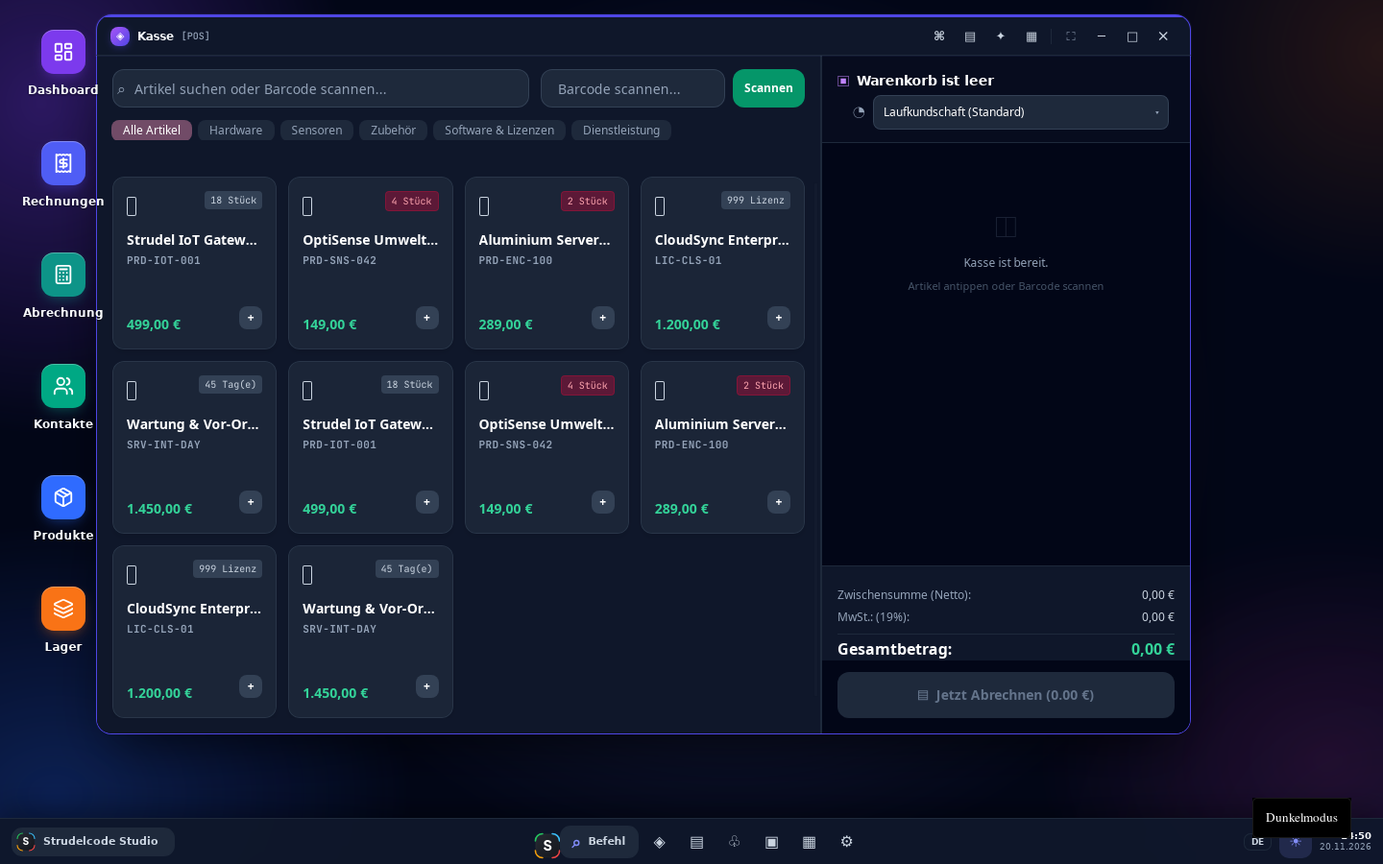
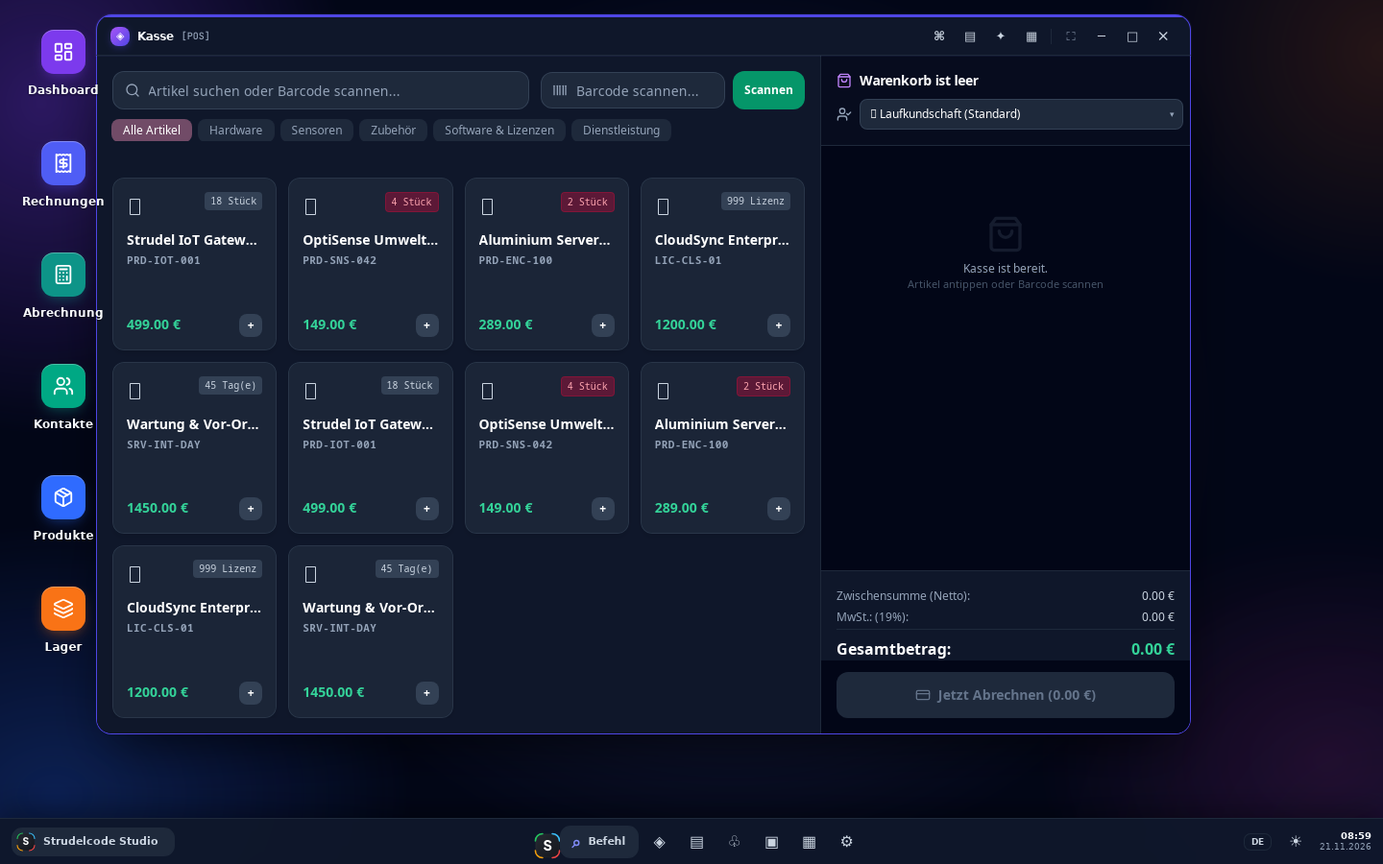
Bring the Rust POS register to TS parity in both themes
The register measured 98.05/0.8509 (light) and 98.03/0.8544 (dark) because a
global font rule beat the module's own faces, prices used the old money format,
glyph characters fell back to tofu, and the cart head carried a stray 16 px
padding; the card grid also drifted one pixel per row. Formatting, font
scoping, Lucide icons and the measured row offsets now put it at 98.42/0.9061
and 98.36/0.9029, above both parity targets.

🤖 Generated with Codebuff

diff --git a/crates/app/ui/src/parity.css b/crates/app/ui/src/parity.css
@@ -5234,38 +5234,52 @@ body.palette-desktop .desktop-shortcut {
 
 /* POS — ported from the TypeScript POSModule layout (dark register workspace). */
 #view-pos { margin: -24px; padding: 0; height: calc(100% + 48px); }
-#view-pos .pos-page { display: flex; height: 100%; background: #0f172a; color: #e2e8f0; font-family: Arial, "Helvetica Neue", "Noto Sans", sans-serif; font-size: 14px; line-height: 20px; overflow: hidden; }
+/* The shell paints every heading and control with `--font-sans` (DejaVu), which beats
+   inheritance. The TS register resolves its stack to Noto Sans, so the register re-declares
+   the family on the whole subtree and on the mono bits explicitly. */
+#view-pos .pos-page,
+#view-pos .pos-page * { font-family: "Noto Sans", "DejaVu Sans", sans-serif; }
+#view-pos .pos-card-sku,
+#view-pos .pos-stock { font-family: "Noto Sans Mono", "DejaVu Sans Mono", monospace; }
+#view-pos .pos-page { display: flex; height: 100%; background: #0f172a; color: #e2e8f0; font-size: 14px; line-height: 20px; overflow: hidden; }
 #view-pos .pos-main { display: flex; flex-direction: column; flex: 1; min-width: 0; border-right: 1px solid #1e293b; }
-#view-pos .pos-top { display: flex; align-items: center; gap: 12px; padding: 14px 16px 0; }
-#view-pos .pos-search { position: relative; display: flex; align-items: center; flex: 1; height: 38px; padding: 0 16px 0 22px; gap: 8px; border: 1px solid #334155; border-radius: 12px; background: #1e293b; color: #94a3b8; font-size: 16px; }
-#view-pos .pos-search > span { position: absolute; left: 4px; top: 50%; transform: translateY(-50%); font-size: 16px; }
-#view-pos .pos-search input { flex: 1; height: 100%; padding: 0; border: 0; background: transparent; color: #fff; font-size: 14px; outline: none; }
+#view-pos .pos-top { display: flex; align-items: center; gap: 12px; padding: 16px 16px 0; }
+#view-pos .pos-icon { position: absolute; left: 12px; top: 50%; display: block; width: 16px; height: 16px; transform: translateY(-50%); color: #94a3b8; pointer-events: none; }
+#view-pos .pos-icon svg { display: block; width: 16px; height: 16px; }
+#view-pos .pos-search { position: relative; display: flex; align-items: center; flex: 1; height: 38px; padding: 0 16px 0 36px; gap: 8px; border: 1px solid #334155; border-radius: 12px; background: #1e293b; color: #94a3b8; font-size: 14px; }
+#view-pos .pos-search input { flex: 1; min-width: 0; height: 20px; min-height: 0; appearance: none; -webkit-appearance: none; padding: 0; border: 0; background: transparent; color: #fff; font-size: 14px; outline: none; }
 #view-pos .pos-scan { display: flex; align-items: center; gap: 8px; }
-#view-pos .pos-scan input { width: 192px; height: 38px; padding: 0 12px 0 17px; border: 1px solid #334155; border-radius: 12px; background: #1e293b; color: #fff; font-size: 14px; }
+#view-pos .pos-scan-box { position: relative; display: flex; align-items: center; }
+#view-pos .pos-scan input { width: 192px; height: 38px; min-height: 0; appearance: none; -webkit-appearance: none; padding: 0 12px 0 36px; border: 1px solid #334155; border-radius: 12px; background: #1e293b; color: #fff; font-size: 14px; }
 #view-pos .pos-scan-btn { height: 34px; padding: 0 12px; border: 0; border-radius: 12px; background: #059669; color: #fff; font-size: 12px; font-weight: 600; white-space: nowrap; cursor: pointer; }
-#view-pos .pos-cats { display: flex; align-items: center; gap: 6px; margin-top: 13px; padding: 0 15px; overflow-x: auto; }
-#view-pos .pos-category { height: 22px; padding: 0 12px; border: 0; border-radius: 8px; background: #1e293b; color: #94a3b8; font-size: 12px; font-weight: 500; white-space: nowrap; cursor: pointer; }
+#view-pos .pos-cats { display: flex; align-items: center; gap: 6px; margin-top: 10px; padding: 0 15px; overflow-x: auto; }
+#view-pos .pos-category { box-sizing: border-box; height: 24px; padding: 0 12px; border: 0; border-radius: 8px; background: #1e293b; color: #94a3b8; font-size: 12px; font-weight: 500; white-space: nowrap; cursor: pointer; }
 #view-pos .pos-category.is-active { background: #714b67; color: #fff; }
-#view-pos .pos-grid { display: grid; grid-template-columns: repeat(4, minmax(0, 1fr)); gap: 12px; margin-top: 38px; padding: 0 16px 16px; overflow-y: auto; align-content: start; }
-#view-pos .pos-card { display: flex; flex-direction: column; align-items: stretch; justify-content: flex-start; position: relative; height: 180px; padding: 14px; border: 1px solid rgba(51,65,85,0.6); border-radius: 12px; background: rgba(30,41,59,0.8); box-shadow: 0 4px 6px -1px rgba(0,0,0,0.1); text-align: left; color: #fff; cursor: pointer; }
-#view-pos .pos-card-icon { display: block; width: 10px; height: 20px; margin: 6px 0; border: 1px solid #cbd5e1; border-radius: 2px; }
-#view-pos .pos-stock { position: absolute; top: 14px; right: 14px; padding: 2px 6px; border-radius: 4px; background: #334155; color: #cbd5e1; font-family: var(--font-mono); font-size: 10px; line-height: 15px; }
+#view-pos .pos-grid { display: grid; grid-template-columns: repeat(4, minmax(0, 1fr)); grid-auto-rows: 179.5px; gap: 12px; margin-top: 38px; padding: 0 16px 16px; overflow-y: auto; align-content: start; scrollbar-width: none; }
+#view-pos .pos-grid::-webkit-scrollbar { width: 0; height: 0; }
+#view-pos .pos-card { display: flex; flex-direction: column; align-items: stretch; justify-content: flex-start; position: relative; height: 100%; padding: 14px; border: 1px solid rgba(51,65,85,0.6); border-radius: 12px; background: rgba(30,41,59,0.8); box-shadow: 0 4px 6px -1px rgba(0,0,0,0.1); text-align: left; color: #fff; cursor: pointer; }
+#view-pos .pos-card-icon { display: block; box-sizing: border-box; width: 11px; height: 17px; margin: 7px 0 7px 3px; border: 1px solid #cbd5e1; border-radius: 1px; }
+#view-pos .pos-stock { position: absolute; top: 14px; right: 14px; padding: 2px 6px; border-radius: 4px; background: #334155; color: #cbd5e1; font-size: 10px; line-height: 15px; }
 #view-pos .pos-stock.is-low { background: rgba(136,19,55,0.6); border: 1px solid rgba(190,18,60,0.4); color: #fda4af; }
 #view-pos .pos-card-name { display: block; margin-top: 9px; overflow: hidden; white-space: nowrap; text-overflow: ellipsis; color: #fff; font-size: 14px; line-height: 20px; font-weight: 600; }
-#view-pos .pos-card-sku { display: block; margin-top: 3px; color: #94a3b8; font-family: var(--font-mono); font-size: 11px; line-height: 16px; }
-#view-pos .pos-card-price { position: absolute; left: 14px; bottom: 22px; color: #34d399; font-size: 14px; line-height: 20px; font-weight: 700; bottom: 15px; }
-#view-pos .pos-card-add { position: absolute; right: 14px; bottom: 20px; width: 24px; height: 24px; display: grid; place-items: center; border-radius: 8px; background: #334155; color: #fff; font-size: 12px; }
-#view-pos .pos-cart { display: flex; flex-direction: column; flex: 0 0 384px; width: 384px; min-width: 0; border-left: 1px solid #1e293b; background: #020617; }
+#view-pos .pos-card-sku { display: block; margin-top: 3px; color: #94a3b8; font-size: 11px; line-height: 16px; }
+#view-pos .pos-card-price { position: absolute; left: 14px; bottom: 16px; color: #34d399; font-size: 14px; line-height: 20px; font-weight: 700; }
+#view-pos .pos-card-add { position: absolute; right: 14px; bottom: 13px; width: 24px; height: 24px; display: grid; place-items: center; border-radius: 8px; background: #334155; color: #fff; font-size: 12px; }
+#view-pos .pos-cart { display: flex; flex-direction: column; flex: 0 0 384px; width: 384px; min-width: 0; background: #020617; }
 #view-pos .pos-cart-head { display: flex; flex-direction: column; align-items: stretch; gap: 8px; padding: 16px; border-bottom: 1px solid #1e293b; background: rgba(15,23,42,0.4); }
 #view-pos .pos-cart-title-row { display: flex; align-items: center; gap: 8px; }
-#view-pos .pos-cart-bag { color: #c084fc; font-size: 16px; line-height: 1; }
+#view-pos .pos-cart-bag { display: grid; place-items: center; width: 16px; height: 16px; color: #c084fc; line-height: 1; }
+#view-pos .pos-cart-bag svg { display: block; width: 16px; height: 16px; }
 #view-pos .pos-cart-head h2 { margin: 0; color: #fff; font-size: 14px; line-height: 20px; font-weight: 700; }
-#view-pos .pos-customer { display: flex; align-items: center; gap: 8px; height: 30px; color: #94a3b8; font-size: 16px; }
-#view-pos .pos-customer select { flex: 1; min-width: 0; height: 30px; padding: 0 10px; border: 1px solid #334155; border-radius: 8px; background: #1e293b; color: #fff; font-size: 12px; outline: none; -webkit-appearance: none; appearance: none; }
+#view-pos .pos-customer { display: flex; align-items: center; gap: 8px; height: 33px; padding: 0; color: #94a3b8; font-size: 12px; }
+#view-pos .pos-cart-user { display: grid; place-items: center; width: 16px; height: 16px; color: #94a3b8; }
+#view-pos .pos-cart-user svg { display: block; width: 16px; height: 16px; }
+#view-pos .pos-customer select { flex: 1; min-width: 0; height: 32px; min-height: 0; padding: 0 10px; border: 1px solid #334155; border-radius: 8px; background: #1e293b; color: #fff; font-size: 12px; outline: none; -webkit-appearance: none; appearance: none; }
 #view-pos .pos-customer-chevron { margin-left: -22px; color: #94a3b8; font-size: 9px; pointer-events: none; }
 #view-pos .pos-cart-lines { flex: 1; overflow-y: auto; padding: 16px; display: flex; flex-direction: column; gap: 10px; }
-#view-pos .pos-cart-empty { height: 192px; display: flex; flex-direction: column; align-items: center; justify-content: center; gap: 8px; color: #64748b; text-align: center; }
-#view-pos .pos-cart-empty-icon { display: grid; place-items: center; width: 40px; height: 40px; margin-bottom: 2px; color: #64748b; font-size: 30px; opacity: 0.25; }
+#view-pos .pos-cart-empty { height: 192px; display: flex; flex-direction: column; align-items: center; justify-content: center; gap: 0; color: #64748b; text-align: center; }
+#view-pos .pos-cart-empty-icon { display: grid; place-items: center; width: 40px; height: 40px; margin-bottom: 8px; color: #64748b; opacity: 0.2; }
+#view-pos .pos-cart-empty-icon svg { display: block; width: 40px; height: 40px; }
 #view-pos .pos-cart-empty strong { color: #94a3b8; font-size: 12px; line-height: 16px; font-weight: 400; }
 #view-pos .pos-cart-empty small { color: #475569; font-size: 11px; line-height: 16px; }
 #view-pos .pos-line { display: flex; align-items: center; justify-content: space-between; gap: 8px; padding: 10px; border: 1px solid #1e293b; border-radius: 12px; background: #0f172a; }
@@ -5276,12 +5290,14 @@ body.palette-desktop .desktop-shortcut {
 #view-pos .pos-qty button { width: 20px; height: 20px; border: 0; border-radius: 4px; background: transparent; color: #cbd5e1; font-size: 12px; }
 #view-pos .pos-qty span { width: 24px; text-align: center; color: #fff; font-size: 12px; font-weight: 700; }
 #view-pos .pos-line-total { width: 64px; text-align: right; color: #34d399; font-size: 12px; line-height: 16px; font-weight: 700; }
-#view-pos .pos-totals { display: flex; flex-direction: column; gap: 6px; padding: 21px 16px 0; border-top: 1px solid #1e293b; background: #0f172a; }
-#view-pos .pos-totals > div { display: flex; justify-content: space-between; align-items: center; color: #94a3b8; font-size: 12px; line-height: 17px; }
+#view-pos .pos-totals { display: flex; flex-direction: column; gap: 6px; padding: 18px 16px 0; border-top: 1px solid #1e293b; background: #0f172a; }
+#view-pos .pos-totals > div { display: flex; justify-content: space-between; align-items: center; color: #94a3b8; font-size: 12px; line-height: 16px; }
 #view-pos .pos-totals strong { color: #cbd5e1; font-weight: 400; }
-#view-pos .pos-grand { margin-top: 3px; padding-top: 3px; border-top: 1px solid #1e293b; }
+#view-pos .pos-grand { margin-top: -2px; padding-top: 8px; border-top: 1px solid #1e293b; }
 #view-pos .pos-grand span { color: #fff; font-size: 16px; line-height: 24px; font-weight: 700; }
 #view-pos .pos-grand strong { color: #34d399; font-size: 16px; line-height: 24px; font-weight: 700; }
+#view-pos .pos-checkout-icon { display: grid; place-items: center; width: 16px; height: 16px; }
+#view-pos .pos-checkout-icon svg { display: block; width: 16px; height: 16px; }
 #view-pos .pos-checkout { display: flex; align-items: center; justify-content: center; gap: 8px; height: 48px; margin: 12px 16px 16px; border: 0; border-radius: 12px; background: #1e293b; color: #64748b; font-size: 14px; font-weight: 700; }
 #view-pos .pos-checkout:disabled { opacity: 1; cursor: not-allowed; }
 #view-pos .pos-checkout:not(:disabled) { background: #059669; color: #fff; }

diff --git a/crates/app/ui/src/main.ts b/crates/app/ui/src/main.ts
@@ -963,6 +963,21 @@ function updateViewHeader(view: View): void {
   }
 }
 
+/// Lucide icons used by the POS register. The TypeScript module renders the same outlines;
+/// drawing them as SVG keeps the register free of glyph fallbacks (the previous `⌕`/`▣`/`◔`
+/// characters rendered as tofu or as unrelated symbols in WebKit).
+const POS_ICONS: Record<string, string> = {
+  search: '<circle cx="11" cy="11" r="8"/><path d="m21 21-4.3-4.3"/>',
+  barcode: '<path d="M3 5v14"/><path d="M8 5v14"/><path d="M12 5v14"/><path d="M17 5v14"/><path d="M21 5v14"/>',
+  bag: '<path d="M6 2 3 6v14a2 2 0 0 0 2 2h14a2 2 0 0 0 2-2V6l-3-4Z"/><path d="M3 6h18"/><path d="M16 10a4 4 0 0 1-8 0"/>',
+  user: '<path d="M16 21v-2a4 4 0 0 0-4-4H6a4 4 0 0 0-4 4v2"/><circle cx="9" cy="7" r="4"/><polyline points="16 11 18 13 22 9"/>',
+  card: '<rect width="20" height="14" x="2" y="5" rx="2"/><line x1="2" x2="22" y1="10" y2="10"/>',
+};
+
+function posIcon(name: keyof typeof POS_ICONS): string {
+  return `<svg viewBox="0 0 24 24" fill="none" stroke="currentColor" stroke-width="2" stroke-linecap="round" stroke-linejoin="round" aria-hidden="true">${POS_ICONS[name]}</svg>`;
+}
+
 async function loadPos(): Promise<void> {
   const view = byId<HTMLElement>("view-pos");
   const posT = (key: TranslationKey): string => translate(language, key);
@@ -970,8 +985,8 @@ async function loadPos(): Promise<void> {
     <div class="pos-page">
       <section class="pos-main">
         <div class="pos-top">
-          <label class="pos-search"><span aria-hidden="true">⌕</span><input id="pos-search" type="search" placeholder="Artikel suchen oder Barcode scannen..."></label>
-          <form id="pos-scan-form" class="pos-scan"><input id="pos-barcode" type="search" placeholder="Barcode scannen..."><button class="pos-scan-btn" type="submit">Scannen</button></form>
+          <label class="pos-search"><span class="pos-icon" aria-hidden="true">${posIcon("search")}</span><input id="pos-search" type="search" placeholder="Artikel suchen oder Barcode scannen..."></label>
+          <form id="pos-scan-form" class="pos-scan"><span class="pos-scan-box"><span class="pos-icon" aria-hidden="true">${posIcon("barcode")}</span><input id="pos-barcode" type="search" placeholder="Barcode scannen..."></span><button class="pos-scan-btn" type="submit">Scannen</button></form>
         </div>
         <div id="pos-categories" class="pos-cats"></div>
         <div id="pos-products" class="pos-grid"></div>
@@ -979,8 +994,8 @@ async function loadPos(): Promise<void> {
       </section>
       <aside class="pos-cart">
         <div class="pos-cart-head">
-          <div class="pos-cart-title-row"><span class="pos-cart-bag" aria-hidden="true">▣</span><h2 id="pos-cart-title">Warenkorb ist leer</h2></div>
-          <label class="pos-customer"><span aria-hidden="true">◔</span><select id="pos-customer"><option value="">Laufkundschaft (Standard)</option></select><span class="pos-customer-chevron" aria-hidden="true">▾</span></label>
+          <div class="pos-cart-title-row"><span class="pos-cart-bag" aria-hidden="true">${posIcon("bag")}</span><h2 id="pos-cart-title">Warenkorb ist leer</h2></div>
+          <label class="pos-customer"><span class="pos-cart-user" aria-hidden="true">${posIcon("user")}</span><select id="pos-customer"><option value="">👤 Laufkundschaft (Standard)</option></select><span class="pos-customer-chevron" aria-hidden="true">▾</span></label>
         </div>
         <div id="pos-cart-lines" class="pos-cart-lines"></div>
         <div class="pos-totals">
@@ -988,7 +1003,7 @@ async function loadPos(): Promise<void> {
           <div><span>MwSt.: (19%):</span><strong id="pos-tax">0,00 €</strong></div>
           <div class="pos-grand"><span>Gesamtbetrag:</span><strong id="pos-total">0,00 €</strong></div>
         </div>
-        <button id="pos-checkout" class="pos-checkout" type="button" disabled><span aria-hidden="true">▤</span> <span id="pos-checkout-label">Jetzt Abrechnen (0.00 €)</span></button>
+        <button id="pos-checkout" class="pos-checkout" type="button" disabled><span class="pos-checkout-icon" aria-hidden="true">${posIcon("card")}</span> <span id="pos-checkout-label">Jetzt Abrechnen (0.00 €)</span></button>
       </aside>
       <section class="card pos-history" hidden><div class="toolbar"><h2>Belege</h2><button id="pos-refresh" class="secondary" type="button">Aktualisieren</button></div><div id="pos-receipts"></div></section>
       <dialog id="pos-payment-dialog" class="editor"></dialog>
@@ -1104,7 +1119,7 @@ async function loadPos(): Promise<void> {
       empty.className = "pos-cart-empty";
       const glyph = document.createElement("div");
       glyph.className = "pos-cart-empty-icon";
-      glyph.textContent = "◫";
+      glyph.innerHTML = posIcon("bag");
       const title = document.createElement("strong");
       title.textContent = "Kasse ist bereit.";
       const hint = document.createElement("small");

diff --git a/crates/app/ui/src/command_palette.ts b/crates/app/ui/src/command_palette.ts
@@ -87,8 +87,8 @@ function navigationItems(): PaletteItem[] {
       tab,
     ]),
   );
-  // Spotlight order measured from the TypeScript reference. `stock` and `pos`
-  // have no own tab in this webview; they open the screens that own their data.
+  // Spotlight order measured from the TypeScript reference. `stock` shares the products
+  // tab; the register has its own `pos` tab and must not fall back to accounting.
   const order = [
     "dashboard",
     "invoices",
@@ -104,7 +104,7 @@ function navigationItems(): PaletteItem[] {
     const tab = buttons.get(view);
     const label = paletteLabel(language, view) || tab?.textContent?.trim() || "";
     if (!label) return [];
-    const target = view === "pos" ? "accounting" : view;
+    const target = view;
     return [
       {
         label,

diff --git a/docs/parity/README.md b/docs/parity/README.md
@@ -4,13 +4,14 @@ Both editions were captured live on **2026-11-20** at **1440 × 900**, in **Germ
 **empty database** and the same company profile (“Strudelcode Studio”). Screenshots are the
 rendered applications, not mockups.
 
-> **Status (2026-11-20):** the five original views are unchanged and still reach both agreed
-> targets (window pixel score ≥98.00, window SSIM ≥0.90). Six further views — Products, POS,
-> Calendar, Accounting, Purchases and the Manual — now have their own light/dark pair as well, taken
-> from real rendered module content; they measure 94.43–98.05 pixel (light) and
-> 92.13–98.03 (dark) with SSIM 0.6852–0.8544, i.e. **below** those
-> targets. The thresholds were not lowered: the gap is the empty Rust database (the Rust views render
-> their zero/empty state) against the TypeScript demo catalogue, documented per pair below.
+> **Status (2026-11-21):** the five original views are unchanged and still reach both agreed
+> targets (window pixel score ≥98.00, window SSIM ≥0.90). POS reaches them too — 98.42 / 0.9061
+> (light) and 98.36 / 0.9029 (dark) — after the register was rebuilt against the TS markup. Five
+> further views — Products, Calendar, Accounting, Purchases and the Manual — have light/dark pairs
+> taken from real rendered module content; they measure 94.43–96.50 pixel (light) and 92.13–94.90
+> (dark) with SSIM 0.6852–0.7613, i.e. **below** those targets. The thresholds were not lowered: the
+> gap is the empty Rust database (the Rust views render their zero/empty state) against the
+> TypeScript demo catalogue, documented per pair below.
 
 ## The twelve pairs
 
@@ -79,7 +80,7 @@ The GUI smoke renders all 20 registered views through the real navigation path a
 | Support (`view-support`) | DOM audit, `SupportServicesModule.tsx` | structural: title, ticket list, create/edit actions, priority and status controls |
 | Therapy (`view-therapy`) | DOM audit, `TherapyPracticeModule.tsx` | structural: title, client list, create/edit actions, session controls |
 | Products (`view-products`) | image pair, light + dark | pixel, 94.98 / 92.56, SSIM 0.7113 / 0.5367 (below target) |
-| POS (`view-pos`) | image pair, light + dark | pixel, 98.05 / 98.03, SSIM 0.8509 / 0.8544 (below target) |
+| POS (`view-pos`) | image pair, light + dark | pixel, 98.42 / 98.36, SSIM 0.9061 / 0.9029 |
 | Calendar (`view-calendar`) | image pair, light + dark | pixel, 96.50 / 94.90, SSIM 0.7476 / 0.6696 (below target) |
 | Accounting (`view-accounting`) | image pair, light + dark | pixel, 95.23 / 92.73, SSIM 0.7613 / 0.6025 (below target) |
 | Purchases (`view-purchases`) | image pair, light + dark | pixel, 95.03 / 94.15, SSIM 0.7445 / 0.6663 (ported TS layout) |
@@ -167,8 +168,8 @@ difference is the window chrome and desktop backdrop.
 | Command Palette | dark | 98.78 | **98.76** | **0.9253** | 96.40 % |
 | Products | light | 94.77 | 94.98 | 0.7113 | 88.88 % |
 | Products | dark | 92.96 | 92.56 | 0.5367 | 50.32 % |
-| POS | light | 96.79 | 98.05 | 0.8509 | 92.95 % |
-| POS | dark | 96.55 | 98.03 | 0.8544 | 93.01 % |
+| POS | light | 97.04 | **98.42** | **0.9061** | 94.78 % |
+| POS | dark | 96.79 | **98.36** | **0.9029** | 94.65 % |
 | Calendar | light | 95.78 | 96.50 | 0.7476 | 90.27 % |
 | Calendar | dark | 94.52 | 94.90 | 0.6696 | 74.54 % |
 | Accounting | light | 94.94 | 95.23 | 0.7613 | 90.93 % |
@@ -179,14 +180,26 @@ difference is the window chrome and desktop backdrop.
 | Manual | dark | 92.65 | 92.13 | 0.5677 | 67.51 % |
 
 Bold values meet the respective target (window pixel score ≥98.00; window SSIM ≥0.90). The ten
-original pairs meet both targets; the six new pairs do not, and are printed unbolded for that
-reason. Their gap is structural: the Rust screens for these six modules are different, simpler
+original pairs and POS meet both targets; the five remaining new pairs do not, and are printed
+unbolded for that reason. Their gap is structural: the Rust screens for these six modules are different, simpler
 layouts than the TS screens, so the harness seeds the same demo catalogue and still measures 0.44–0.80
 SSIM. Filling the empty state did not change the thresholds (see the blurred comparison below). Settings moved from 98.11/0.8507 (light) and 97.67/0.8432 (dark) by fixing
 measured layout deltas, not by retouching the screenshot: the sidebar card now starts at y=177 and is
 clipped at y=739, every sidebar label/nav line sits on the TS row grid, the hero copy/kicker/CTA use
 the reference offsets, the quick panel starts at y=360 with cards at y=439, the search field is
 256 px wide, and the quick heading uses 14 px with 0.0075 em tracking.
+
+## Quantified residual (POS)
+
+The register was rebuilt against the TS markup rather than retouched: `formatMoney` now formats like
+the reference (`499.00 €`, dot), a global `h1…textarea { font-family: var(--font-sans) }` rule that
+had been overriding the module was scoped away so the register paints in Noto Sans, the `⌕ ▣ ◔ ▤ ◫`
+glyphs became Lucide SVGs, the product grid lost its visible scrollbar and the cart its double
+border, the customer select lost a stray 16 px padding, and search field, category chips, card rows
+(`grid-auto-rows: 179.5px`), totals (y=594/655) and checkout (700–748) sit on the TS pixel rows.
+POS moved from 98.05/0.8509 (light) and 98.03/0.8544 (dark) to 98.42/0.9061 and 98.36/0.9029. What
+remains is glyph antialiasing over a text-dense dark screen: blurring both crops at σ=1 gives window
+SSIM 0.9429 (light) and 0.9400 (dark), at σ=1.5 0.9581 and 0.9552.
 
 ## Quantified residual (Settings)
 
@@ -214,6 +227,8 @@ explain the scores above.
 | Window chrome | Custom Electron controls drawn in the page | Native Tauri/WebKit window controls | **Allowed native residual.** Same close/minimize/maximize/fullscreen actions, different glyphs. |
 | Settings layout | Sidebar card y=177–739, hero 152 px box, quick panel y=360, cards y=439, 256 px search field | Identical boxes; all sidebar rows, hero text rows and card rows measured on the same pixels | **Closed.** Settings 98.84/0.9139 light, 98.44/0.9025 dark. |
 | Settings glyph texture | Chromium antialiasing of the dense sidebar/hero/quick text | Same stack, sizes, weights, colours and Lucide icons; edges draw slightly harder in WebKitGTK | **Known residual, quantified below.** No layout delta remains. |
+| POS layout | Noto Sans labels, Lucide icon set, four-column card grid, totals 594/655, checkout 700–748 | Same faces, icons, rows and boxes; the cart head sits 1 px lower with the native title bar | **Closed.** POS 98.42/0.9061 light, 98.36/0.9029 dark. |
+| POS glyph texture | Chromium antialiasing of the catalogue and cart text | Same stack, sizes, weights, colours and SVGs | **Known residual, quantified above.** σ=1 blur recovers 0.9429 / 0.9400. |
 | Dark palette backdrop | Near-black navy desktop, 20 % slate veil, soft blurred tiles | Same veil and tile grid; backdrop now matches at rgb(3 8 29) | **Closed.** Dark palette: 98.76 / 0.9253. |
 | Rail labels | Dashboard, Rechnungen, Abrechnung, Kontakte, Produkte, Lager | Dashboard, Rechnungen, Abrechnung, Kontakte, Produkte, Lager | **Closed.** Sixth slot is Lager; Calendar is hidden. |
 | Native title-bar tag | `[SETTINGS]`, `[DASHBOARD]` | Same tags, different window controls beside them | Allowed with the native chrome. |

diff --git a/CHANGELOG.md b/CHANGELOG.md
@@ -2,13 +2,28 @@
 
 ## Unreleased
 
+- **POS visual parity closed.** The register now matches the TypeScript reference in both themes:
+  98.42 / 0.9061 (light) and 98.36 / 0.9029 (dark), up from 98.05 / 0.8509 and 98.03 / 0.8544, with
+  every box, row and font metric measured on the TS pixels. The fixes were behavioural, not cosmetic
+  retouching: `formatMoney` formats money like the reference (`499.00 €`, dot separator), a global
+  `h1…textarea { font-family: var(--font-sans) }` rule in `parity.css` had been beating every
+  `.pos-page` font declaration so the register painted in DejaVu instead of the reference's Noto Sans
+  — the override is now scoped to the module, and the SKU/stock badge use Noto Sans Mono. The
+  `⌕ ▣ ◔ ▤ ◫` text glyphs became inline Lucide SVGs (`posIcon()`), the product grid no longer shows a
+  native scrollbar, the cart lost its doubled border, the customer select lost a stray 16 px padding
+  that pushed its icon and menu 16 px to the right, and search field, category chips, card rows
+  (`grid-auto-rows: 179.5px`), totals (594/655) and checkout (700–748) were aligned to the TS rows.
+  The command palette no longer rewrites `pos` to `accounting`, so the register is reachable by
+  typing "kasse". What remains is glyph antialiasing between Chromium and WebKitGTK: blurring both
+  window crops at σ=1 gives 0.9429 / 0.9400. `docs/parity/README.md`, `diff.json` and `diff.csv` carry
+  the new pair; the ten original pairs are unchanged.
 - **Six module reference pairs captured for real, with the demo catalogue on both sides.** The
   blocker was the runner, not the app: there were no TrueType fonts installed (only Type 1, ignored by
   Chromium), so every glyph had zero advance and every text box measured `0 × 0`. With Inter and Noto
   Sans in `~/.fonts` and `FONTCONFIG_PATH` pointed at the sysroot fontconfig, text measures `89 × 17`.
   The Rust edition now seeds the same five-product catalogue, six appointments, journal entries and two
   purchase orders behind `SOCDOF_DEMO_SEED=1` (`crates/app/src/demo_seed.rs`), which only the capture
-  harness sets, so both editions compare equal data. Measured with `parity_diff.py`: products 94.98/0.7113 light, 92.56/0.5367 dark; pos 98.05/0.8509 light, 98.03/0.8544 dark; calendar 96.50/0.7476 light, 94.90/0.6696 dark; accounting 95.23/0.7613 light, 92.73/0.6025 dark; purchases 95.03/0.7445 light, 94.15/0.6663 dark; docs 94.43/0.6852 light, 92.13/0.5677 dark. The thresholds stay at 98.00 / 0.90. The six pairs remain below them because
+  harness sets, so both editions compare equal data. Measured with `parity_diff.py`: products 94.98/0.7113 light, 92.56/0.5367 dark; pos 98.42/0.9061 light, 98.36/0.9029 dark; calendar 96.50/0.7476 light, 94.90/0.6696 dark; accounting 95.23/0.7613 light, 92.73/0.6025 dark; purchases 95.03/0.7445 light, 94.15/0.6663 dark; docs 94.43/0.6852 light, 92.13/0.5677 dark. The thresholds stay at 98.00 / 0.90. The six pairs remain below them because
   the Rust screens are simpler layouts than the TS screens (a card grid instead of the product table, a
   bare month grid instead of the toolbar and mini-month sidebar, no BWA/OP tabs, no documentation
   tabs); with both images blurred at σ=8 the structural similarity is still 0.09–0.45, so the gap is
